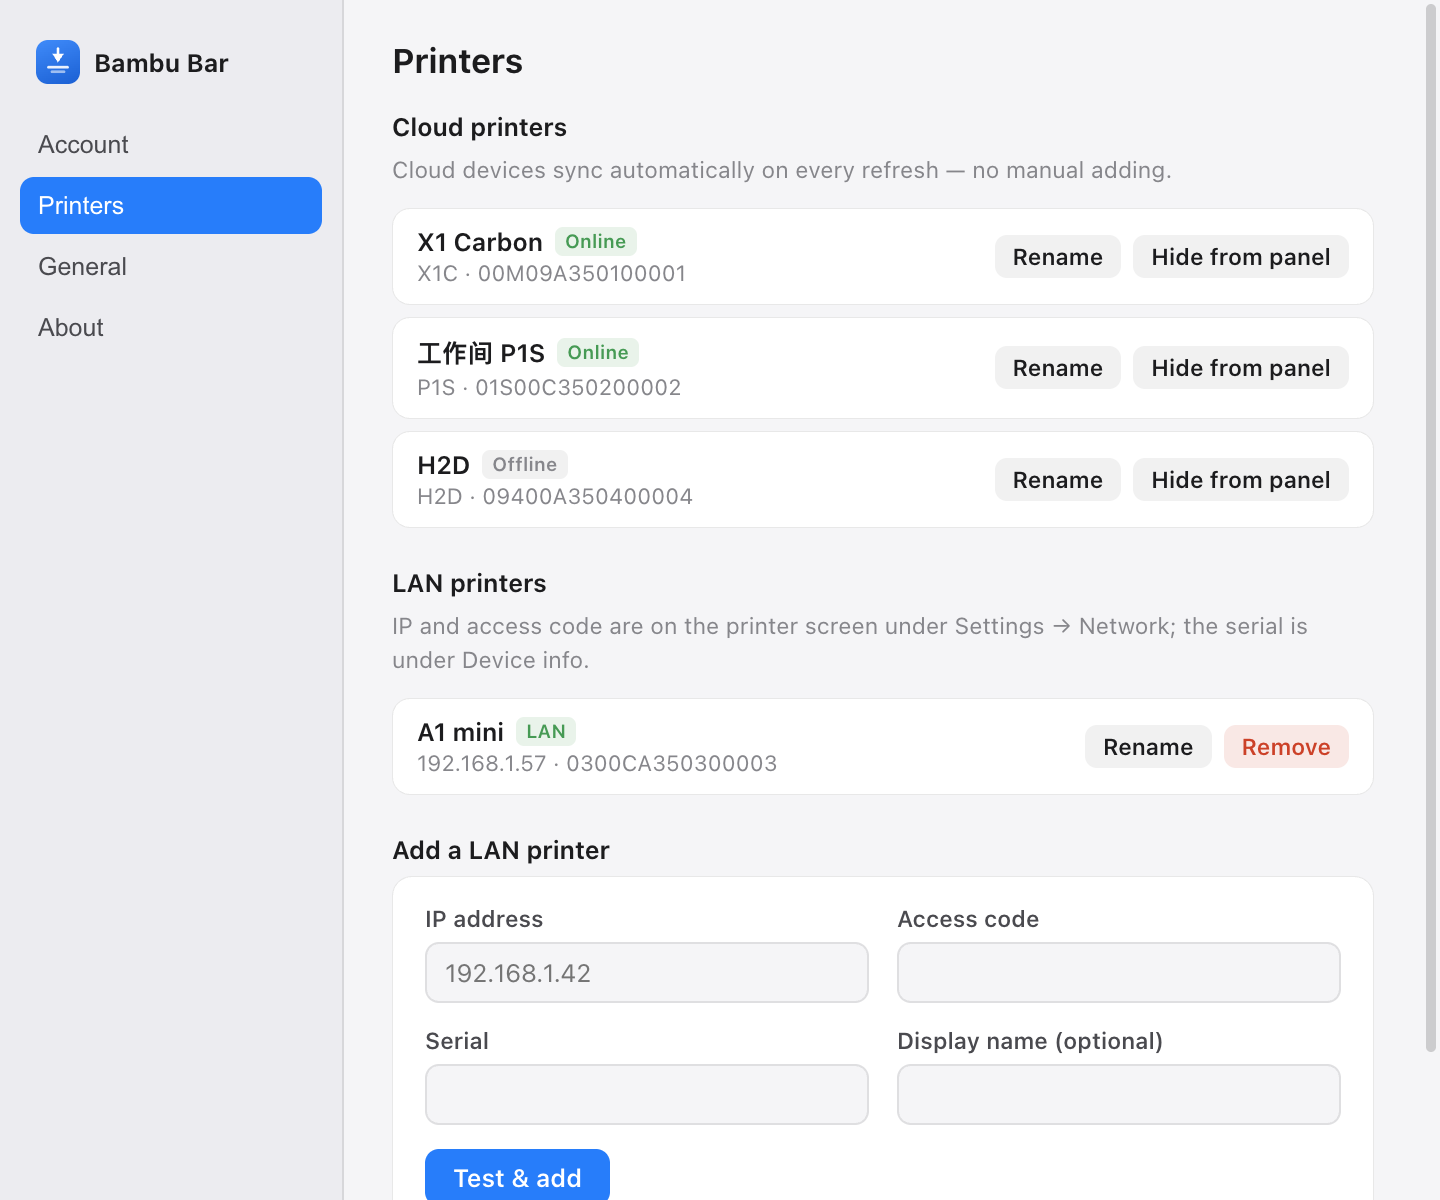
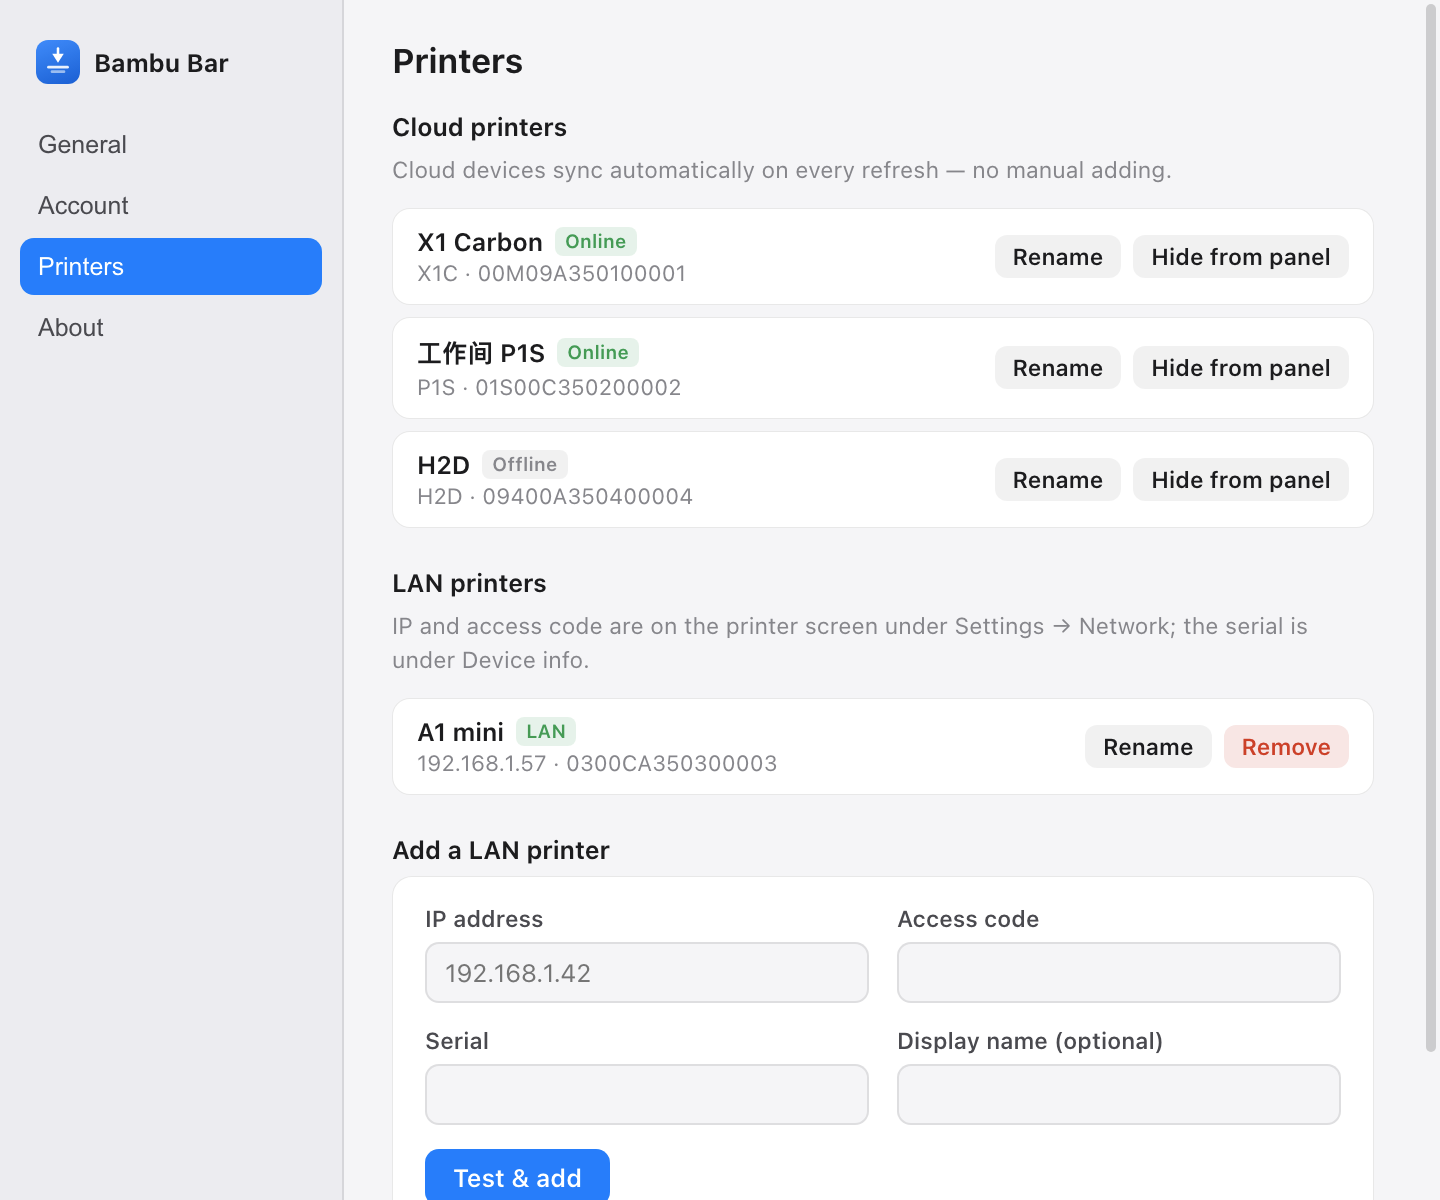
面板：AMS/外置各自成段（有料亮起、没接置灰）；设置窗通用移到首位并作为默认落点

Changed region(s): [[0.0, 0.0925, 0.25, 0.2467]]

diff --git a/src/popover/popover.js b/src/popover/popover.js
@@ -237,13 +237,19 @@ function updateCard(v) {
   q.meta.textContent = parts.join('  ·  ');
   show(q.meta, parts.length > 0);
 
-  // AMS / 外挂料盘
+  // AMS / 外置料盘：两个标签各管一段，有则亮、无则灰。
+  // 早前只有一个「AMS」标签，所有料盘槽都挂在它后面 —— 无 AMS 的机器（A1 mini 这类
+  // 只接外挂料盘）于是被画成「AMS：一个白圈」，读起来像 AMS 里装着一卷料。
+  // 现在按来源分标签：AMS 亮起=这台的 AMS 有槽位；外置亮起=接着外挂料盘。
   q.ams.replaceChildren();
   const f = v.filament || {};
   const units = f.units || [];
-  const totalSlots = units.reduce((n, u) => n + u.slots.length, 0);
-  if (totalSlots || f.external) {
-    q.ams.append(el('span', 'ams-tag', t('card.ams')));
+  const amsSlots = units.reduce((n, u) => n + u.slots.length, 0);
+  const hasExt = !!f.external;
+  if (amsSlots || hasExt) {
+    const amsTag = el('span', 'ams-tag' + (amsSlots ? ' on' : ''), t('card.ams'));
+    amsTag.title = amsSlots ? t('card.slots', { n: amsSlots }) : t('card.amsOff');
+    q.ams.append(amsTag);
     units.forEach((u, ui) => {
       if (ui > 0) q.ams.append(el('span', 'ams-sep'));
       for (const s of u.slots) {
@@ -253,18 +259,25 @@ function updateCard(v) {
         q.ams.append(d);
       }
     });
-    if (f.external) {
-      if (totalSlots) q.ams.append(el('span', 'ams-sep'));
-      const d = el('span', 'slot ext' + (f.external.color ? '' : ' unknown') + (f.external.active ? ' active' : ''));
-      if (f.external.color) d.style.setProperty('--c', f.external.color);
-      d.title = t('card.amsExt');
-      q.ams.append(d);
-    }
+
+    q.ams.append(el('span', 'ams-sep'));
+    const extTag = el('span', 'ams-tag' + (hasExt ? ' on' : ''), t('card.ext'));
+    extTag.title = hasExt ? t('card.amsExt') : t('card.extOff');
+    q.ams.append(extTag);
+    // 没接外挂料盘时留一个空心虚框占位：标签后面空着会像是渲染漏了，
+    // 也顺带把同一行的两段对齐，四台机器横着扫的时候位置一致。
+    const extCls = 'slot ext'
+      + (hasExt ? (f.external.color ? '' : ' unknown') + (f.external.active ? ' active' : '') : ' none');
+    const d = el('span', extCls);
+    if (hasExt && f.external.color) d.style.setProperty('--c', f.external.color);
+    d.title = hasExt ? t('card.amsExt') : t('card.extOff');
+    q.ams.append(d);
+
     const info = [];
     const u0 = units[0];
     if (u0 && u0.humidityText) info.push(t('hum.' + u0.humidityText));
     if (u0 && u0.temp != null) info.push(`${Math.round(u0.temp)}°`);
-    if (info.length) q.ams.append(el('span', null, info.join(' · ')));
+    if (info.length) q.ams.append(el('span', 'ams-meta', info.join(' · ')));
   }
   show(q.ams, q.ams.childElementCount > 0);
 
@@ -386,7 +399,7 @@ document.getElementById('btnRefresh').addEventListener('click', async (e) => {
   flash(t('pop.refresh.done'));
   setTimeout(() => btn.classList.remove('spin'), 600);
 });
-const openSet = () => window.bambu.openSettings('account');
+const openSet = () => window.bambu.openSettings('general');
 document.getElementById('btnSettings2').addEventListener('click', openSet);
 document.getElementById('btnQuit').addEventListener('click', () => window.bambu.quit());
 document.addEventListener('keydown', (e) => {

diff --git a/scripts/gen-xhs.js b/scripts/gen-xhs.js
@@ -360,7 +360,7 @@ pages.push({
       <div class="anno" style="flex:1;display:flex;flex-direction:column;justify-content:center;gap:26px;padding:6px 0">
         <div class="a"><span class="dot"></span><span class="txt"><b>面板高度跟着机器数走</b><br>一台一小条，四台四张卡；超出屏幕内部滚动，页脚始终可见</span></div>
         <div class="a"><span class="dot" style="background:#f5a524"></span><span class="txt"><b>颜色按状态取</b><br>蓝=打印中 琥珀=暂停 红=失败 绿=完成 灰=空闲</span></div>
-        <div class="a"><span class="dot" style="background:#17a673"></span><span class="txt"><b>耗材是第二套颜色</b><br>来自机器上报的料色；当前出料槽加蓝环，空槽画斜纹灰</span></div>
+        <div class="a"><span class="dot" style="background:#17a673"></span><span class="txt"><b>耗材是第二套颜色</b><br>AMS 与外置各带一个标签：有料亮起、没接置灰；出料槽加蓝环</span></div>
         <div class="a"><span class="dot" style="background:#e5484d"></span><span class="txt"><b>错误给的是官方口径</b><br>HMS 码 + 失败原因长句，不是「出错了」三个字</span></div>
         <div class="a"><span class="dot" style="background:#7c4dff"></span><span class="txt"><b>菜单栏直接显示进度</b><br>有机器在打印时显示平均百分比，有失败显示「!」</span></div>
       </div>
@@ -393,7 +393,7 @@ pages.push({
       </div>
       <div class="card" style="padding:22px 26px">
         <h3 style="font-size:27px">耗材</h3>
-        <p style="font-size:20px">当前耗材颜色 · AMS 各槽颜色+材料+余量 · 外挂料盘 · AMS 湿度档与仓温</p>
+        <p style="font-size:20px">当前耗材颜色 · AMS 各槽颜色+材料+余量 · 外置耗材单列 · AMS 湿度档与仓温</p>
       </div>
       <div class="card" style="padding:22px 26px">
         <h3 style="font-size:27px">机器</h3>

diff --git a/src/main.js b/src/main.js
@@ -526,7 +526,7 @@ function showTrayMenu() {
   if (!snap.printers.length) items.push({ label: T('pop.summary.none'), enabled: false });
   items.push({ type: 'separator' });
   items.push({ label: T('pop.refresh'), click: () => refreshAll() });
-  items.push({ label: T('pop.settings'), click: () => openSettings('account') });
+  items.push({ label: T('pop.settings'), click: () => openSettings('general') });
   items.push({ type: 'separator' });
   items.push({
     label: T('menu.demo'),
@@ -745,7 +745,9 @@ function startCloudPoll() {
 }
 
 // ─────────────────────────── 设置窗 ───────────────────────────
-function openSettings(section = 'account') {
+// 默认落「通用」：它是侧栏第一项，也是大多数人点齿轮想找的东西（主题/语言/刷新间隔）。
+// 需要账号或打印机列表的入口（面板空状态的"去登录/加局域网"）会显式传自己的分页。
+function openSettings(section = 'general') {
   if (settingsWin && !settingsWin.isDestroyed()) {
     settingsWin.show();
     settingsWin.focus();
@@ -1007,7 +1009,7 @@ ipcMain.handle('app:refreshOne', (_e, serial) => {
   return true;
 });
 ipcMain.handle('app:copy', (_e, text) => { clipboard.writeText(String(text || '')); return true; });
-ipcMain.handle('app:openSettings', (_e, section) => { hidePopover(); openSettings(section || 'account'); return true; });
+ipcMain.handle('app:openSettings', (_e, section) => { hidePopover(); openSettings(section || 'general'); return true; });
 ipcMain.handle('app:quit', () => { quitting = true; app.quit(); });
 ipcMain.handle('app:diagnostics', () => collectDiagnostics());
 ipcMain.handle('app:revealData', () => { shell.openPath(app.getPath('userData')); return true; });

diff --git a/test/printer-view.test.js b/test/printer-view.test.js
@@ -82,6 +82,34 @@ test('extractFilament：tray_now=255（无耗材）时不把任何槽标成 acti
   assert.equal(f.activeKey, null);
 });
 
+test('extractFilament：外挂料盘不计入 amsSlotCount（有外挂 ≠ 有 AMS）', () => {
+  const f = extractFilament(printingReport);
+  assert.equal(f.amsSlotCount, 2, '两个 AMS 槽');
+  assert.equal(f.count, 3, 'count 仍含外挂料盘');
+  assert.ok(f.external, '外挂料盘单列');
+});
+
+test('buildPrinterView：无 AMS 的机器 hasAms=false、hasExternal=true', () => {
+  // A1 mini 这类只挂外挂料盘的机器：ams.ams 是空数组，料在 vt_tray 里。
+  const report = {
+    ...printingReport,
+    ams: { tray_now: '254', ams: [] },
+    vt_tray: { id: '254', tray_color: 'F7D64AFF', tray_type: 'PLA', remain: 84 },
+  };
+  const v = buildPrinterView({ entry, report, state: resolveState(report), locale: 'zh-CN' });
+  assert.equal(v.filament.hasAms, false, '面板据此把 AMS 标签置灰');
+  assert.equal(v.filament.hasExternal, true, '外置标签据此类亮起');
+  assert.equal(v.filament.units.length, 0);
+  assert.equal(v.filament.current, '#f7d64a');
+});
+
+test('buildPrinterView：有 AMS 但没接外挂料盘时 hasExternal=false', () => {
+  const report = { ...printingReport, vt_tray: undefined };
+  const v = buildPrinterView({ entry, report, state: resolveState(report), locale: 'zh-CN' });
+  assert.equal(v.filament.hasAms, true);
+  assert.equal(v.filament.hasExternal, false);
+});
+
 test('formatEta：按本机时区算出完成时刻，并给出跨天天数', () => {
   const now = new Date(2026, 9, 26, 23, 0, 0).getTime();
   const eta = formatEta(120, now, 'zh-CN'); // 23:00 + 2h → 次日 01:00

diff --git a/src/popover/style.css b/src/popover/style.css
@@ -272,10 +272,18 @@ body {
   font-size: 10.5px; color: var(--muted);
   flex-wrap: wrap;
 }
+/* 模块标签（AMS / 外置）：默认灰 = 这台没接这个模块，.on 才是「有料、亮起」。
+   灰在这里不是故障色（不加红），只是「没有」；亮起用主色，和面板其它强调同一套。 */
 .ams-tag {
   font-size: 9px; font-weight: 600; letter-spacing: .3px;
   padding: 1.5px 4px; border-radius: 3px;
   background: var(--chip); color: var(--muted);
+  transition: background .12s, color .12s;
+  flex: 0 0 auto;
+}
+.ams-tag.on {
+  background: color-mix(in srgb, var(--c-printing) 13%, transparent);
+  color: var(--c-printing);
 }
 .slot {
   width: 13px; height: 13px; border-radius: 50%;
@@ -290,11 +298,21 @@ body {
 .slot.active {
   box-shadow: 0 0 0 1.5px var(--card), 0 0 0 3px var(--c-printing);
 }
+/* 外置料盘：形状（方）已足够和 AMS 的圆点区分，边框就用实线；
+   虚线只留给「没接外置」的占位，别让「白料」看起来像个空槽。 */
 .slot.ext {
   border-radius: 4px;
-  border: 1px dashed color-mix(in srgb, var(--muted) 75%, transparent);
+  border: 1px solid color-mix(in srgb, var(--muted) 60%, transparent);
+}
+/* 没接外挂料盘的占位：只留一段半透明虚框轮廓 */
+.slot.ext.none {
+  background: transparent;
+  border-style: dashed;
+  opacity: .5;
 }
 .ams-sep { width: 1px; height: 11px; background: var(--line); margin: 0 2px; }
+/* 湿度 / 温度：跟着 AMS 段走，不参与两个标签的对齐 */
+.ams-meta { color: var(--muted); font-variant-numeric: tabular-nums; margin-left: 2px; }
 
 /* 任务名 */
 .job {

diff --git a/src/core/printer-view.js b/src/core/printer-view.js
@@ -169,8 +169,13 @@ function extractFilament(report) {
     }
   }
 
-  const count = units.reduce((n, u) => n + u.slots.length, 0) + (external ? 1 : 0);
-  return { units, external, activeKey, count };
+  // amsSlotCount 单独给出来：面板要区分「这台有没有 AMS」。
+  // 不能拿 count 反推 —— count 把外挂料盘也算进去了，而「有外挂、无 AMS」正是
+  // A1 mini 这类机器的常态（外挂料盘不是 AMS，以前被画在 AMS 标签后面，读起来像
+  // 这台 AMS 里装着一卷白料）。
+  const amsSlotCount = units.reduce((n, u) => n + u.slots.length, 0);
+  const count = amsSlotCount + (external ? 1 : 0);
+  return { units, external, activeKey, count, amsSlotCount };
 }
 
 // 剩余分钟 → 预计完成时刻文案（本机时区），跨自然日标 +1/+2。
@@ -263,6 +268,9 @@ function buildPrinterView({ entry, report, state, now = Date.now(), reason = nul
     filament: {
       current: resolveFilamentColor(r),
       amsCount: filament.count,
+      // 两个「有没有」的布尔量交给渲染层做亮起/置灰，渲染层不自己从数组长度猜。
+      hasAms: filament.amsSlotCount > 0,
+      hasExternal: !!filament.external,
       units: filament.units,
       external: filament.external,
       activeKey: filament.activeKey,

diff --git a/src/settings/settings.js b/src/settings/settings.js
@@ -126,8 +126,9 @@ function applyStaticText() {
 }
 
 // ── 分页 ──
+// 顺序即侧栏顺序：通用在最上（设置窗默认落点），账号/打印机是"要办具体事"才去的两页。
 function switchTab(name) {
-  const tab = ['account', 'printers', 'general', 'about'].includes(name) ? name : 'account';
+  const tab = ['general', 'account', 'printers', 'about'].includes(name) ? name : 'general';
   for (const b of document.querySelectorAll('.nav-btn')) b.classList.toggle('active', b.dataset.tab === tab);
   for (const s of document.querySelectorAll('.tab')) s.hidden = s.id !== 'tab-' + tab;
   $('main').scrollTop = 0;
@@ -454,6 +455,6 @@ api.onPrintersChanged(() => { reload().catch(() => {}); });
 (async function init() {
   await loadStrings();
   await reload();
-  switchTab((location.hash || '#account').slice(1));
+  switchTab((location.hash || '#general').slice(1));
   window.addEventListener('hashchange', () => switchTab(location.hash.slice(1)));
 })();

diff --git a/src/dev/demo-data.js b/src/dev/demo-data.js
@@ -119,15 +119,10 @@ const state = {
     bed_target_temper: 0,
     wifi_signal: -44,
     nozzle_diameter: 0.4,
-    ams: {
-      tray_now: '255',
-      ams: [amsUnit(0, 2, 25.1, [
-        { color: 'F7D64AFF', type: 'PLA', remain: 84 },
-        { color: '4FBF6BFF', type: 'PLA', remain: 55 },
-        { color: '00000000', type: '', remain: -1 },
-        { color: '00000000', type: '', remain: -1 },
-      ])],
-    },
+    // A1 mini 故意不接 AMS（只挂外挂料盘）—— 四台全带 AMS 的话，面板上「AMS 置灰 /
+    // 外置亮起」这条路就永远走不到，改版时看不出差别。tray_now=254 = 当前吃外挂料。
+    ams: { tray_now: '254', ams: [] },
+    vt_tray: { id: '254', tray_color: 'F7D64AFF', tray_type: 'PLA', remain: 84 },
   },
   h2d: {
     connected: true,

diff --git a/src/config/ui-strings.js b/src/config/ui-strings.js
@@ -41,7 +41,10 @@ const UI = {
     'card.speed': '速度',
     'card.wifi': '信号',
     'card.ams': 'AMS',
-    'card.amsExt': '外挂料盘',
+    'card.ext': '外置',
+    'card.amsExt': '外置耗材',
+    'card.amsOff': '未接 AMS',
+    'card.extOff': '未接外置耗材',
     'card.dry': '干燥',
     'card.slots': '{n} 槽',
     'card.hms': 'HMS',
@@ -198,7 +201,10 @@ const UI = {
     'card.speed': 'Speed',
     'card.wifi': 'Signal',
     'card.ams': 'AMS',
+    'card.ext': 'EXT',
     'card.amsExt': 'External spool',
+    'card.amsOff': 'No AMS',
+    'card.extOff': 'No external spool',
     'card.dry': 'dry',
     'card.slots': '{n} slots',
     'card.hms': 'HMS',

diff --git a/src/settings/index.html b/src/settings/index.html
@@ -20,9 +20,9 @@
         </span>
         <span>Bambu Bar</span>
       </div>
+      <button class="nav-btn" data-tab="general"></button>
       <button class="nav-btn" data-tab="account"></button>
       <button class="nav-btn" data-tab="printers"></button>
-      <button class="nav-btn" data-tab="general"></button>
       <button class="nav-btn" data-tab="about"></button>
     </nav>
 

diff --git a/README.md b/README.md
@@ -31,7 +31,7 @@
 | 状态 | 打印中 / 准备中（含 78 种 `stg_cur` 阶段精确文案）/ 换料中 / 暂停（缺料、堵头、温控异常、首层异常、舱门…）/ 完成 / 失败（按官方 HMS 码表归到「断料 / 堵头 / 温度 / 机械 / 校准 / 打印板 / 喷嘴 / AMS」大类）/ 离线 / 登录失效 |
 | 任务 | 文件名（`subtask_name` / `gcode_file`）、进度百分比、当前层 / 总层、剩余时间、**按本机时区算出的预计完成时刻**（跨自然日标 `+1`、`+2`） |
 | 温度 | 喷嘴（当前 / 目标）、热床（当前 / 目标）；腔温**只在带腔温控制器的机型上显示**（H2C / H2D / H2D Pro / H2S / X1E / X2D），其余机型整行不显示 |
-| 耗材 | 当前耗材颜色（双喷头按 `extruder.snow` 定位主喷头）、AMS 各槽颜色 + 材料 + 余量（悬停查看）、外挂料盘、AMS 湿度档与仓温 |
+| 耗材 | 当前耗材颜色（双喷头按 `extruder.snow` 定位主喷头）、AMS 各槽颜色 + 材料 + 余量（悬停查看）、外置耗材单列（`AMS` / `外置` 两个标签各自亮起或置灰）、AMS 湿度档与仓温 |
 | 机器 | 速度档（静音 / 标准 / 运动 / 狂暴 + 倍率）、WiFi 信号、喷嘴直径与材质、风扇（模型 / 辅助 / 腔体）、腔灯、舱门 |
 | 错误 | HMS 码（16 位十六进制，悬停显示官方文案）、`fail_reason` 与官方原因长句 |
 
@@ -71,7 +71,13 @@
 | 有颜色 | 实心圆点，直接设 `--c` |
 | `alpha = 00` | 斜纹灰点（`.slot.unknown`）—— 真机空槽报 `00000000`，若取前 6 位会被误当成黑料 |
 | 当前出料槽 | 外加一圈蓝色双环（`.slot.active`） |
-| 外挂料盘 | 方形虚线框（`.slot.ext`），与 AMS 槽区分 |
+| 外挂料盘 | 圆点画成方形实线框（`.slot.ext`），与 AMS 槽区分；没接时只剩半透明虚框占位 |
+
+耗材这一行分两段，各带一个标签：`AMS` 和 `外置`。标签的状态就是这台机器的配置 ——
+**有料亮起（`.ams-tag.on`，主色淡底）、没接置灰**。之所以要两个标签：A1 mini 这类只挂
+外挂料盘、不带 AMS 的机器，最早的版本把料点挂在唯一的「AMS」标签后面，读起来像
+「AMS 里装着一卷白料」。机器没接外挂时标签后面留一个空心虚框（`.slot.ext.none`）占位，
+四台机器横着扫的时候两段位置一致。
 
 打印中进度条的填充色也会换成当前耗材色；但料太亮（`luma ≥ 0.82`，比如白料）时回退到状态蓝，否则白条在白底上看不见（`src/popover/popover.js:224-230`）。
 
@@ -97,7 +103,7 @@
 - **页脚不显示「更新于 x 秒前」**：那个相对计时每收到一帧报文就归零，而打印机空闲时约 5 秒一帧、
   打印中约 1 秒一帧，于是数字在 1~5 秒之间循环跳动，看起来像「面板每 5 秒刷新一次」。
   实际刷新节奏由打印机自己的上报频率决定，应用只在收到报文时重绘 —— 显示一个会跳的秒数没有信息量，只有误解
-- **设置窗**四个分页：账号（登录）/ 打印机（重命名、移除、隐藏、加局域网机）/ 通用（外观明暗、语言、菜单栏进度、开机自启、系统通知、在线状态检查间隔）/ 关于（诊断信息）
+- **设置窗**四个分页，侧栏顺序即使用频率：通用（外观明暗、语言、菜单栏进度、开机自启、系统通知、在线状态检查间隔）/ 账号（登录）/ 打印机（重命名、移除、隐藏、加局域网机）/ 关于（诊断信息）。设置窗默认落在「通用」；面板空状态的「去登录 / 加局域网」会直接跳到对应分页
 - **外观**在「设置 → 通用」：跟随系统 / 浅色 / 深色，**切换即时生效**（只改 `nativeTheme.themeSource`，
   两个窗口都靠 CSS `prefers-color-scheme` 取色，所以不用重启）。面板右上只留刷新按钮 ——
   那里原来有个图标容易被读成「明暗切换」，设置入口统一走页脚「设置…」
@@ -275,7 +281,7 @@ Built on top of [YingyiDai/bambu-buddy](https://github.com/YingyiDai/bambu-buddy
 
 **Colours** are keyed to *status*, not to the printer: a printer changes state and the whole card changes colour, while two printers in the same state share it. Six semantic colours, one set for light and one for dark (`src/popover/style.css:22-26` / `46-50`): printing `#0a7cff` / `#4c9dff`, paused `#d98300` / `#ffb340`, failed `#d92d20` / `#ff6369`, finished `#1f9d4d` / `#4ac26b`, idle `#86868b` / `#9b9ba2`, offline `#b4b4b9` / `#6a6a72`. `statusClassFromStateKey()` (`src/core/live-telemetry.js:16-27`) folds all 78 `stg_cur` stages into those six; its `default` branch means every recognised-but-unlisted stage counts as printing, so preparing and changing filament get no hue of their own — keeping the palette at six hues is what lets an outlier jump out while scanning. The chosen colour lands in the CSS variable `--st`, shared by four places: the 3px bar down the left of the card, the dot beside the title (pulsing while printing), the status text on the right, and the progress-bar fill.
 
-Filament swatches are a second, independent colour source, reported by the printer as `tray_color` in `RRGGBBAA` rather than defined by the app. `alpha = 00` means "no colour" and renders as a hatched grey dot — real printers report `00000000` for an empty slot, so reading only the first six digits would show it as black filament. The currently extruding slot gets a blue double ring, an external spool is drawn as a dashed square, and while printing the progress bar takes the filament colour too, falling back to the status blue when the material is too bright to read against the track (`luma ≥ 0.82`, e.g. white).
+Filament swatches are a second, independent colour source, reported by the printer as `tray_color` in `RRGGBBAA` rather than defined by the app. `alpha = 00` means "no colour" and renders as a hatched grey dot — real printers report `00000000` for an empty slot, so reading only the first six digits would show it as black filament. The row is split into an `AMS` segment and an `EXT` (external spool) segment, each with its own label: lit in the accent colour when that source has filament, grey when the machine does not have it. Two labels rather than one because an A1 mini with only an external spool used to render that spool behind the single `AMS` label, which read as "a roll loaded in the AMS". The currently extruding slot gets a blue double ring, the external spool is drawn as a square with a solid outline (a faint dashed outline when nothing is connected, so the two segments stay aligned across cards and white filament never looks like an empty slot), and while printing the progress bar takes the filament colour too, falling back to the status blue when the material is too bright to read against the track (`luma ≥ 0.82`, e.g. white).
 
 **Appearance** lives in Settings → General (follow system / light / dark) and applies instantly without a restart: the setting only writes `nativeTheme.themeSource`, and both windows take their colours from CSS `prefers-color-scheme`. The panel header keeps a single refresh button — the icon that used to sit there read as a brightness toggle while actually opening settings, so the only settings entry is now the footer link.
 
